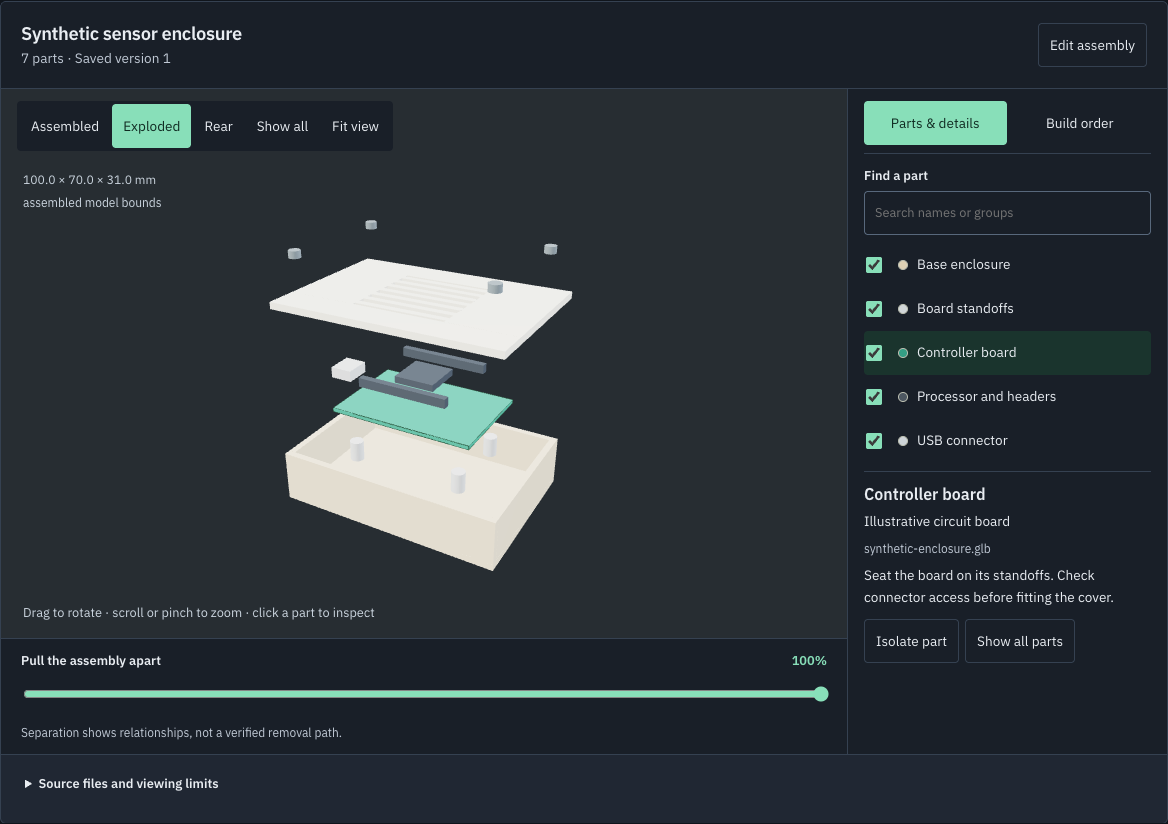
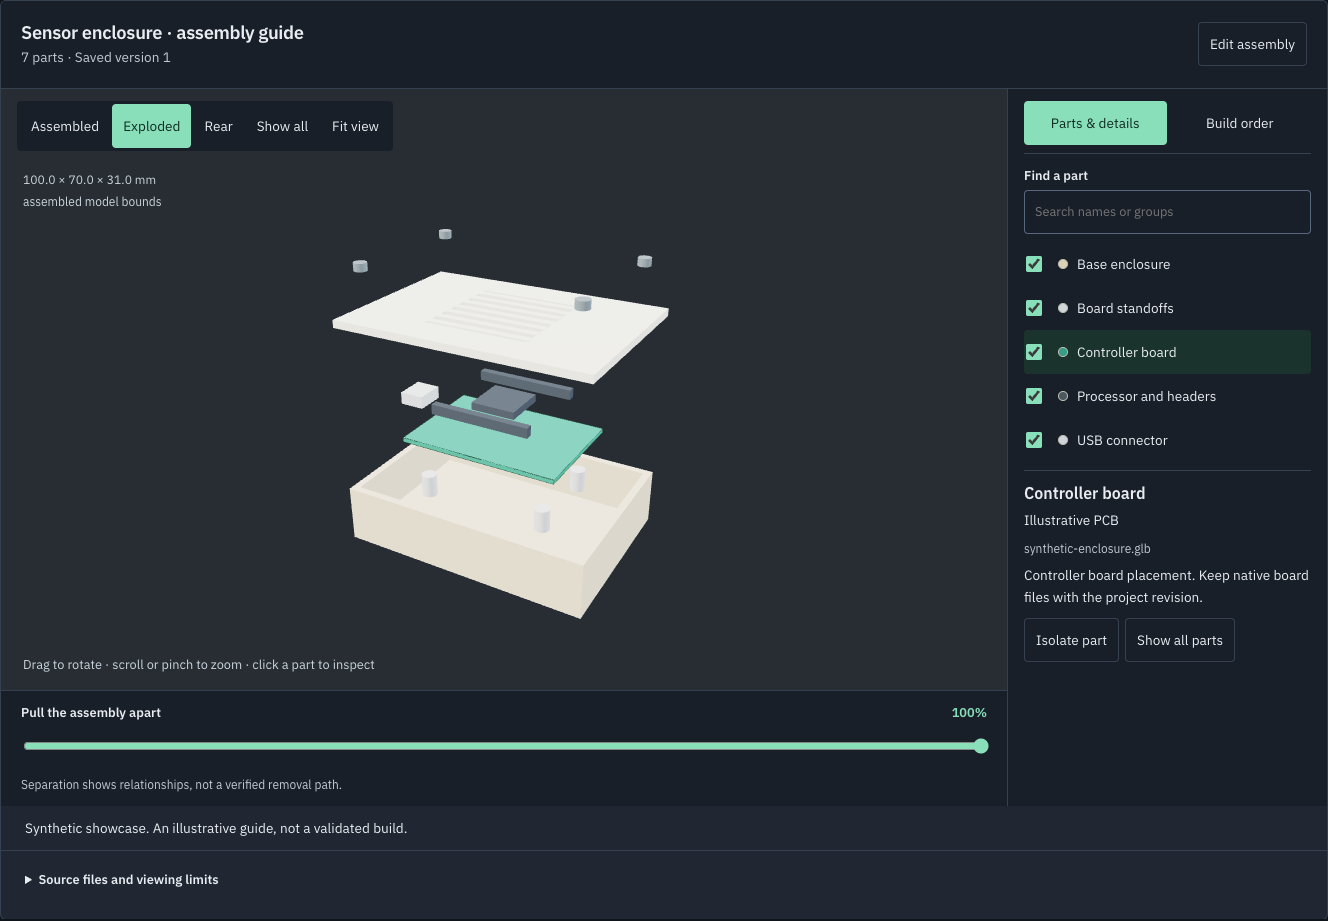
docs: showcase the complete build workflow and PCB inspection

diff --git a/README.md b/README.md
@@ -2,9 +2,9 @@
   <img src="docs/assets/benchledger-lockup.svg" alt="BenchLedger" width="560">
 </p>
 
-<h3 align="center">Inventory, build planning and exploded CAD views for your workshop.</h3>
+<h3 align="center">From parts drawer to finished build.</h3>
 
-<p align="center">A self-hosted workspace for 3D printing, electronics and maker projects.<br>Keep parts, BOMs, model files and build guides together — with the same tools available to people and MCP agents.</p>
+<p align="center">Your inventory, BOM, CAD assembly, PCB and build plan — in one project.<br>A self-hosted, open-source workshop for people and MCP agents.</p>
 
 <p align="center">
   <a href="https://github.com/newtonlorenz/benchledger/actions/workflows/check.yml"><img alt="Build and tests" src="https://github.com/newtonlorenz/benchledger/actions/workflows/check.yml/badge.svg"></a>
@@ -14,7 +14,7 @@
   <a href="docs/agent-quickstart.md"><img alt="Model Context Protocol" src="https://img.shields.io/badge/AI-MCP--ready-c2410c"></a>
 </p>
 
-<p align="center"><a href="#try-it-locally">Quickstart</a> · <a href="#see-it-in-action">Showcase</a> · <a href="docs/assembly-explorer.md">CAD viewer</a> · <a href="docs/agent-quickstart.md">Connect an agent</a> · <a href="CONTRIBUTING.md">Contribute</a></p>
+<p align="center"><a href="#try-it-locally">Quickstart</a> · <a href="#see-it-in-action">Showcase</a> · <a href="docs/assembly-explorer.md">CAD</a> · <a href="docs/pcb-viewer.md">PCBs</a> · <a href="docs/agent-quickstart.md">Connect an agent</a> · <a href="CONTRIBUTING.md">Contribute</a></p>
 
 ![BenchLedger assembly explorer separating the cover, circuit board, fasteners and base of a synthetic electronics enclosure](docs/assets/showcase/assembly-exploded.png)
 
@@ -23,61 +23,85 @@
 > [!NOTE]
 > **Early open-source release.** The app works locally and on a private LAN. APIs and schemas may change before 1.0; there is no managed hosted service.
 
-## What can I do with it?
+## Your build, connected
 
-- **Find the parts you already have.** Track filament, electronics, fasteners, tools and printers, with separate evidence for ordered, delivered and physically checked stock.
-- **Plan a build around real gaps.** Keep requirements, bill of materials (BOM), revisions, reuse choices and supplier offers together.
-- **Explore how a model fits together.** Open STEP, GLB or STL files, pull parts apart, hide layers and inspect the construction in your browser.
-- **Leave a useful build guide.** Save part names, placements, fixing notes, linked requirements and a step-by-step assembly order.
-- **Keep the project history.** Tie CAD, slicer files, firmware and drawings to exact revisions; reconcile used stock, returns and leftovers after a build.
-- **Let an agent help.** Scoped MCP tools use the same validation, permissions and audit history as the web interface.
+A board belongs with its enclosure. An enclosure belongs with its parts list. A parts list should know what is already in your workshop.
+
+BenchLedger keeps that context together, from the first requirement to the stock left after a build. Open it in a browser, connect an MCP agent, or use both against the same project records.
+
+| In your project | What you can do today |
+| --- | --- |
+| **Inventory & equipment** | Search electronics, filament, fasteners, tools and printers. Organise categories, images and locations; track exact product variants and separate ordered, delivered and counted stock. |
+| **BOM & readiness** | Start from a template or review a CSV import. See **Ready / Check / Decide / Source** requirements, inspect alternatives and reserve confirmed parts. |
+| **CAD & assembly guides** | Inspect STEP, GLB and STL, select or isolate parts, explore exploded views, and save placements, requirement links and build steps. |
+| **PCB inspection** | Open native KiCad boards or STEP/GLB exports within the project. Inspect top/bottom views, supported copper, drills and footprint outlines. |
+| **Files & revisions** | Keep CAD, firmware, drawings and slicer files with exact project or workstream revisions. Preview supported files and download originals with integrity checks. |
+| **Build planning** | Record repeated parts, plates, run counts, materials, nozzle side and time estimates. Track workstreams and retain planning snapshots. |
+| **Sourcing & close-out** | Compare dated supplier quotes with pack sizes, currencies and missing costs visible. Review actual usage, returns and leftovers before updating stock. |
+| **HTTP API & MCP** | Read gaps, inspect geometry and prepare plans through shared application rules, scoped access, version checks and audit history. |
+
+[Full capability map](docs/capability-map.md) · [Maker workflows](docs/maker-workflows.md)
 
 ## See it in action
 
-### Explore the construction
+### Pull the assembly apart. Keep the build together.
 
-The assembly viewer includes selection, isolation, searchable parts, assembled/exploded views and a separation slider. Saved guides can include colours, materials, position adjustments, requirement links and build steps.
+Select a part, isolate it, search by name, or move between assembled and exploded views. Save an assembly guide with materials, fixing notes, linked requirements and a build order. The source CAD stays intact.
 
-![A saved synthetic enclosure assembly with a selected circuit board and build notes in BenchLedger's dark interface](docs/assets/showcase/assembly-dark.png)
+<details>
+<summary>See the same assembly in dark mode</summary>
 
-| Source | What the viewer preserves |
+![Fresh BenchLedger dark-mode capture showing a selected controller board within a saved synthetic assembly guide](docs/assets/showcase/assembly-dark.png)
+
+</details>
+
+[Explore the assembly viewer](docs/assembly-explorer.md) · [Download the sample enclosure](docs/assets/showcase/synthetic-enclosure.glb)
+
+### The PCB is part of the project
+
+Open a board from **Files → PCB** without leaving its build context. Rotate it, switch between top and bottom, show or hide copper and footprint outlines, then search for a reference or value to inspect a component.
+
+![Native KiCad PCB in BenchLedger with source copper, drill openings, selectable footprint outlines and project navigation](docs/assets/showcase/pcb-top.png)
+
+The native reader uses the board's declared dimensions, supported outer copper, drills and footprint drawings. **Footprint outlines are not component bodies.** Missing models and unsupported geometry are reported; use a self-contained STEP/GLB export when detailed bodies or filled zones matter. This is inspection, not PCB editing or DRC.
+
+The same source can join enclosure geometry in **Assembly**. MCP agents inspect the same revision and file hash through `inspect_assembly_sources`.
+
+[PCB support and limits](docs/pcb-viewer.md) · [Download the synthetic KiCad board](docs/assets/showcase/synthetic-controller.kicad_pcb)
+
+### Know what you have. See what is missing.
+
+The workbench brings projects, equipment and next actions together. Open a project to review its requirements: ready to use, needs a physical check, needs a decision, or needs sourcing. Uncertain stock stays uncertain until evidence changes it.
+
+![Fresh BenchLedger workbench capture with synthetic projects, workshop equipment and next actions](docs/assets/showcase/workbench.png)
+
+![A synthetic project plan in BenchLedger showing requirements and their Ready, Check, Decide or Source state](docs/assets/showcase/project-plan.png)
+
+Reviewed CSV imports, requirement filters, supplier quotes, plate plans and independent workstreams support larger builds. Stock close-out records what was used, returned or left over through an explicit review. Technical mode exposes exact identities, units, provenance and history.
+
+### Give your agent the same project context
+
+Use BenchLedger as a web app, or connect an MCP-capable client to help with the work:
+
+> “Read this project's current revision and BOM. Inspect the board and enclosure files, draft an assembly order, and list the checks we still need before sourcing anything.”
+
+Agents can inspect source parts, calculate gaps, record supplier observations and save plans through the same application services. Typed tools preserve project scope, exact file hashes, optimistic concurrency and audit history. Purchasing, physical verification and printer operation remain separate decisions.
+
+[Connect an agent](docs/agent-quickstart.md) · [MCP setup and tools](apps/mcp/QUICKSTART.md) · [Bundled agent skill](skills/benchledger/SKILL.md)
+
+### Bring your existing files
+
+| Source | Viewing support |
 | --- | --- |
-| **STEP / STP** | Separate solids, source placements and hierarchy where present; declared units are converted to millimetres. |
-| **GLB** | Static glTF meshes, nested transforms, repeated placements and illustrative colours. |
-| **STL** | One part per file, with explicit units and editable placement. |
+| **KiCad `.kicad_pcb`** | Supported board outline, thickness, drills, outer copper and footprint geometry; reference/value metadata. |
+| **STEP / STP** | Separate solids, placements and hierarchy where present; declared units converted to millimetres. |
+| **GLB** | Static meshes, nested transforms, repeated placements and illustrative colours; bounded support for fragmented CAD exports. |
+| **STL** | One part per file, with explicit units and editable placement in Assembly. |
+| **Images, Markdown, text** | In-project previews; other stored formats remain downloadable. |
 
-Separate exports keep their original positions. An exploded view illustrates relationships; it does not establish fit or a safe removal sequence. Other native CAD formats need a STEP or GLB export.
+Exploded positions illustrate relationships, not a verified removal path. PCB and CAD views do not establish mechanical fit, electrical safety or manufacturing readiness.
 
-[Assembly guide and limits](docs/assembly-explorer.md) · [Download the synthetic demo model](docs/assets/showcase/synthetic-enclosure.glb) · [Screenshot provenance](docs/showcase.md)
-
-### Know what needs attention
-
-The workbench brings projects, equipment and next actions together. Stock evidence helps distinguish what is ready to use from what still needs counting, a decision or sourcing.
-
-![BenchLedger workbench showing synthetic maker projects, stock checks and workshop equipment](docs/assets/showcase/workbench.png)
-
-| Status | Next action |
-| --- | --- |
-| **Ready** | The recorded evidence supports using this item. |
-| **Check** | Confirm a count or compatibility detail. |
-| **Decide** | Resolve a project choice. |
-| **Source** | Review options for a confirmed gap. |
-
-Technical mode exposes exact variants, lots, provenance, revision scope, hashes and audit history.
-
-### Keep people and agents on the same page
-
-BenchLedger works as a normal web app. An MCP-capable client can also read inventory, calculate gaps, inspect model parts, prepare an assembly guide and save approved changes through the same application service.
-
-For example, ask your agent:
-
-> “Read this project's current revision. Inspect its model files, explain the parts, and draft a build order. Flag missing evidence before suggesting what to source.”
-
-Assembly tools include `inspect_assembly_sources`, `read_project_assembly`, `save_project_assembly` and `read_assembly_history`. Saves validate exact source hashes and revision ownership, retain history and protect against stale updates.
-
-Agents do not gain permission to purchase products, publish files, purge history or control a printer. Physical verification remains a separate maker decision.
-
-[Agent quickstart](docs/agent-quickstart.md) · [MCP setup and tool reference](apps/mcp/QUICKSTART.md) · [Capability map](docs/capability-map.md) · [Bundled agent skill](skills/benchledger/SKILL.md)
+All showcase images are fresh captures of the shipped app using synthetic data. [Capture details and reproducible sample files](docs/showcase.md).
 
 ## Try it locally
 
@@ -99,7 +123,12 @@ demo-password-please-change
 
 This starts a **synthetic, in-memory demo**. Its data resets when the server restarts. The demo password is public and is not a credential for a persistent installation.
 
-To try the showcase model, download [synthetic-enclosure.glb](docs/assets/showcase/synthetic-enclosure.glb), upload it to the demo project's **Files**, then open **Assembly**. In the file's **Coordinates**, use **metre** units and **Z up**. Choose **Open assembly**, then **Exploded**.
+Try the two examples in a demo project:
+
+1. **Exploded CAD:** upload [synthetic-enclosure.glb](docs/assets/showcase/synthetic-enclosure.glb) in **Files**, then open **Assembly**. In **Coordinates**, select **metre** and **Z up**. Choose **Open assembly → Exploded**.
+2. **Native PCB:** upload [synthetic-controller.kicad_pcb](docs/assets/showcase/synthetic-controller.kicad_pcb) in **Files**, open **PCB**, select the board and choose **Open PCB**. Units and orientation are handled automatically.
+
+These are illustrative viewing examples, not validated designs. Stock close-out is available in persistent installations; the lightweight demo does not advertise it.
 
 For persistent storage, authentication and backups, follow the [self-hosting and deployment guide](docs/deployment.md). MCP connections use scoped bearer tokens even when the browser is configured for trusted-LAN access.
 
@@ -115,7 +144,7 @@ MCP adapter ─────────┘          │                    │
                                └─> content-addressed artifact storage
 ```
 
-Source CAD stays intact. Assembly geometry is derived for viewing; saved guides use the existing versioned workflow store. STEP conversion uses `occt-import-js` / Open CASCADE; rendering uses Three.js. See [format support and dependency licences](docs/assembly-explorer.md#implementation-and-distribution).
+CAD and PCB geometry is derived for viewing; saved guides use the existing versioned workflow store. STEP conversion uses `occt-import-js` / Open CASCADE; rendering uses Three.js. See [format support and dependency licences](docs/assembly-explorer.md#implementation-and-distribution).
 
 BenchLedger does not slice models, generate G-code, control printers, scrape retailers or place orders.
 
@@ -128,7 +157,7 @@ Try it on a maker workflow and tell us where it breaks down. Useful contribution
 - [Browse good first issues](https://github.com/newtonlorenz/benchledger/issues?q=is%3Aissue%20is%3Aopen%20label%3A%22good%20first%20issue%22)
 - [Read the contributing guide](CONTRIBUTING.md)
 
-If BenchLedger would help your workshop, **star the repository** to keep it handy and share it with another maker. Feedback from an actual build is especially useful at this stage.
+Building something with BenchLedger? **Share a screenshot and a link to your project** in [Discussions](https://github.com/newtonlorenz/benchledger/discussions). Public examples help other makers discover what is possible. Star the repository to keep it handy, or send it to someone with a parts drawer that needs organising.
 
 Before contributing, read the [Code of Conduct](CODE_OF_CONDUCT.md), [development workflow](docs/development-workflow.md) and [support guide](SUPPORT.md). Run focused checks while iterating and `npm run check` before review.
 

diff --git a/docs/showcase.md b/docs/showcase.md
@@ -1,36 +1,56 @@
-# Showcase images and sample model
+# Showcase images and example files
 
-The README images are direct captures of BenchLedger's web interface, using only
-synthetic data. They are not mock-ups, private workshop screenshots or evidence
-of a validated physical build. Captured on 2026-09-13 from the application accompanying this showcase update.
+Captured on **2026-09-16** from BenchLedger revision `c7442a4`, which includes the
+project PCB viewer. Every image is a direct browser capture of the actual app
+using a disposable, in-memory synthetic workspace. No private inventory, board,
+host address, credential or browser chrome is included. No UI elements or model
+geometry were painted into the screenshots.
 
 | Asset | What it shows |
 | --- | --- |
-| [Workbench](assets/showcase/workbench.png) | The default synthetic demo's project register, attention queue and equipment. |
-| [Exploded assembly](assets/showcase/assembly-exploded.png) | A seven-part synthetic electronics enclosure with saved viewing offsets. |
-| [Dark assembly](assets/showcase/assembly-dark.png) | The same guide, with the controller board selected. |
-| [Sample GLB](assets/showcase/synthetic-enclosure.glb) | Static geometry generated entirely from boxes and cylinders. |
+| [Exploded assembly](assets/showcase/assembly-exploded.png) | A saved seven-part enclosure guide with illustrative viewing offsets. |
+| [Dark assembly](assets/showcase/assembly-dark.png) | The same guide with a selected controller board in dark mode. |
+| [Native PCB](assets/showcase/pcb-top.png) | Top view of a native KiCad file, with copper, drill openings and selectable footprint outlines. |
+| [Workbench](assets/showcase/workbench.png) | Synthetic project attention and workshop equipment. |
+| [Project plan](assets/showcase/project-plan.png) | The synthetic demo's revision-scoped requirements and readiness. |
+| [Enclosure GLB](assets/showcase/synthetic-enclosure.glb) | Seven static model parts generated from boxes and cylinders. |
+| [Controller KiCad board](assets/showcase/synthetic-controller.kicad_pcb) | A 64 × 44 mm viewing example with 12 component footprints, four mounting holes, six connector drills and illustrative tracks. |
 
-All four assets are suitable for sharing with a link to the repository. They use
-the repository's Apache-2.0 licence. The model is illustrative; it has not been
-checked for printing, mechanical fit, electrical safety or functionality.
+The enclosure and native board are independent illustrative examples. Matching
+outer board dimensions do not establish that their geometry, hole positions or
+connections form a compatible assembly. Neither is a validated electrical circuit,
+printable part, manufacturing file or physical build instruction. The native
+viewer shows footprint drawings, not invented component bodies.
 
-## Recreate the model and views
+## Recreate the examples
 
-1. Follow the README's local quickstart and sign into the in-memory demo.
-2. Run `node scripts/create-showcase-model.mjs` from the repository root to
-   regenerate the GLB. The generator reads no private CAD or project files.
-3. Upload `docs/assets/showcase/synthetic-enclosure.glb` through the demo
-   project's **Files** tab.
-4. In **Assembly**, select that file, open **Coordinates**, set **metre** and
-   **Z up**, then choose **Open assembly**.
-5. Use **Edit assembly** to name the guide `Synthetic sensor enclosure`, add
-   illustrative notes, and set the viewing offsets below. These are display
-   offsets, not manufacturing or disassembly instructions.
-6. Save the guide in the disposable demo, choose **Exploded**, and adjust the
-   zoom with the mouse wheel. Select the controller board for the detail view.
-7. Switch appearance through **View** for the dark capture. Capture the assembly
-   workspace element; do not change labels, state or rendering to simulate UI.
+From the repository root, after `npm ci`:
+
+```bash
+node scripts/create-showcase-model.mjs
+node scripts/create-showcase-board.mjs
+npm run build
+npm run dev
+```
+
+These generators read no private project files and create only the two named
+synthetic assets above. The demo uses the public password documented in the
+[README](../README.md#try-it-locally).
+
+1. Sign in to the demo and open the synthetic lamp project.
+2. Upload both example files through **Files**, in the current project revision.
+3. Open **Assembly**, select the GLB, and set **metre / Z up** in **Coordinates**.
+4. Choose **Open assembly**, then **Edit assembly**. Name the guide
+   `Sensor enclosure · assembly guide`, add illustrative notes, and use the
+   viewing offsets below. Save only in the disposable demo.
+5. Choose **Exploded**. Adjust the camera with the viewer's orbit/zoom controls;
+   capture the assembly workspace. Select **Controller board** and use
+   **View → Dark** for the second capture.
+6. Open **PCB**, choose `synthetic-controller.kicad_pcb`, then **Open PCB → Top**.
+   Select the `U1` footprint outline. Capture the PCB workspace with project
+   navigation visible; leave source warnings and provenance intact.
+7. Capture **Workbench** and the project's **Plan** using their normal UI. All
+   names, counts, requirements and states come from the synthetic demo.
 
 | Part | Separation X / Y / Z (mm) |
 | --- | --- |
@@ -42,10 +62,23 @@ checked for printing, mechanical fit, electrical safety or functionality.
 | Vented cover | 0 / 0 / 65 |
 | Cover fasteners | 0 / 0 / 82 |
 
-The first README workbench image is captured before renaming the demo project.
-The enclosure views use a renamed synthetic demo project. No real inventory,
-project files, service addresses, credentials or browser chrome are included.
+The saved guide groups parts into three steps: **Base and board supports**,
+**Controller and connections**, and **Cover and fasteners**. These are illustrative
+viewing instructions, not a tested assembly sequence.
 
-The full model and capture sizes are intentionally small enough to view directly
-on GitHub. Keep future showcase assets factual and regenerate them from the
-synthetic demo when the relevant interface changes.
+Screenshots use the app's own light/dark appearance controls and camera controls.
+Their crops exclude browser chrome and unrelated navigation while retaining the
+real interface. No CSS overrides, fake overlays or private workshop content are
+used. Refresh these captures when the represented interface changes.
+
+## Share an example
+
+These assets use the repository's Apache-2.0 licence and can accompany a link to
+[BenchLedger](https://github.com/newtonlorenz/benchledger). A useful caption is:
+
+> BenchLedger keeps inventory, BOMs, exploded CAD, native PCB inspection and build
+> planning in one self-hosted project workspace, with shared tools for people and
+> MCP agents. Screenshots use synthetic demonstration data.
+
+Prefer a specific workflow or a build story over claims about popularity. Remove
+private project details before sharing your own screenshots.
